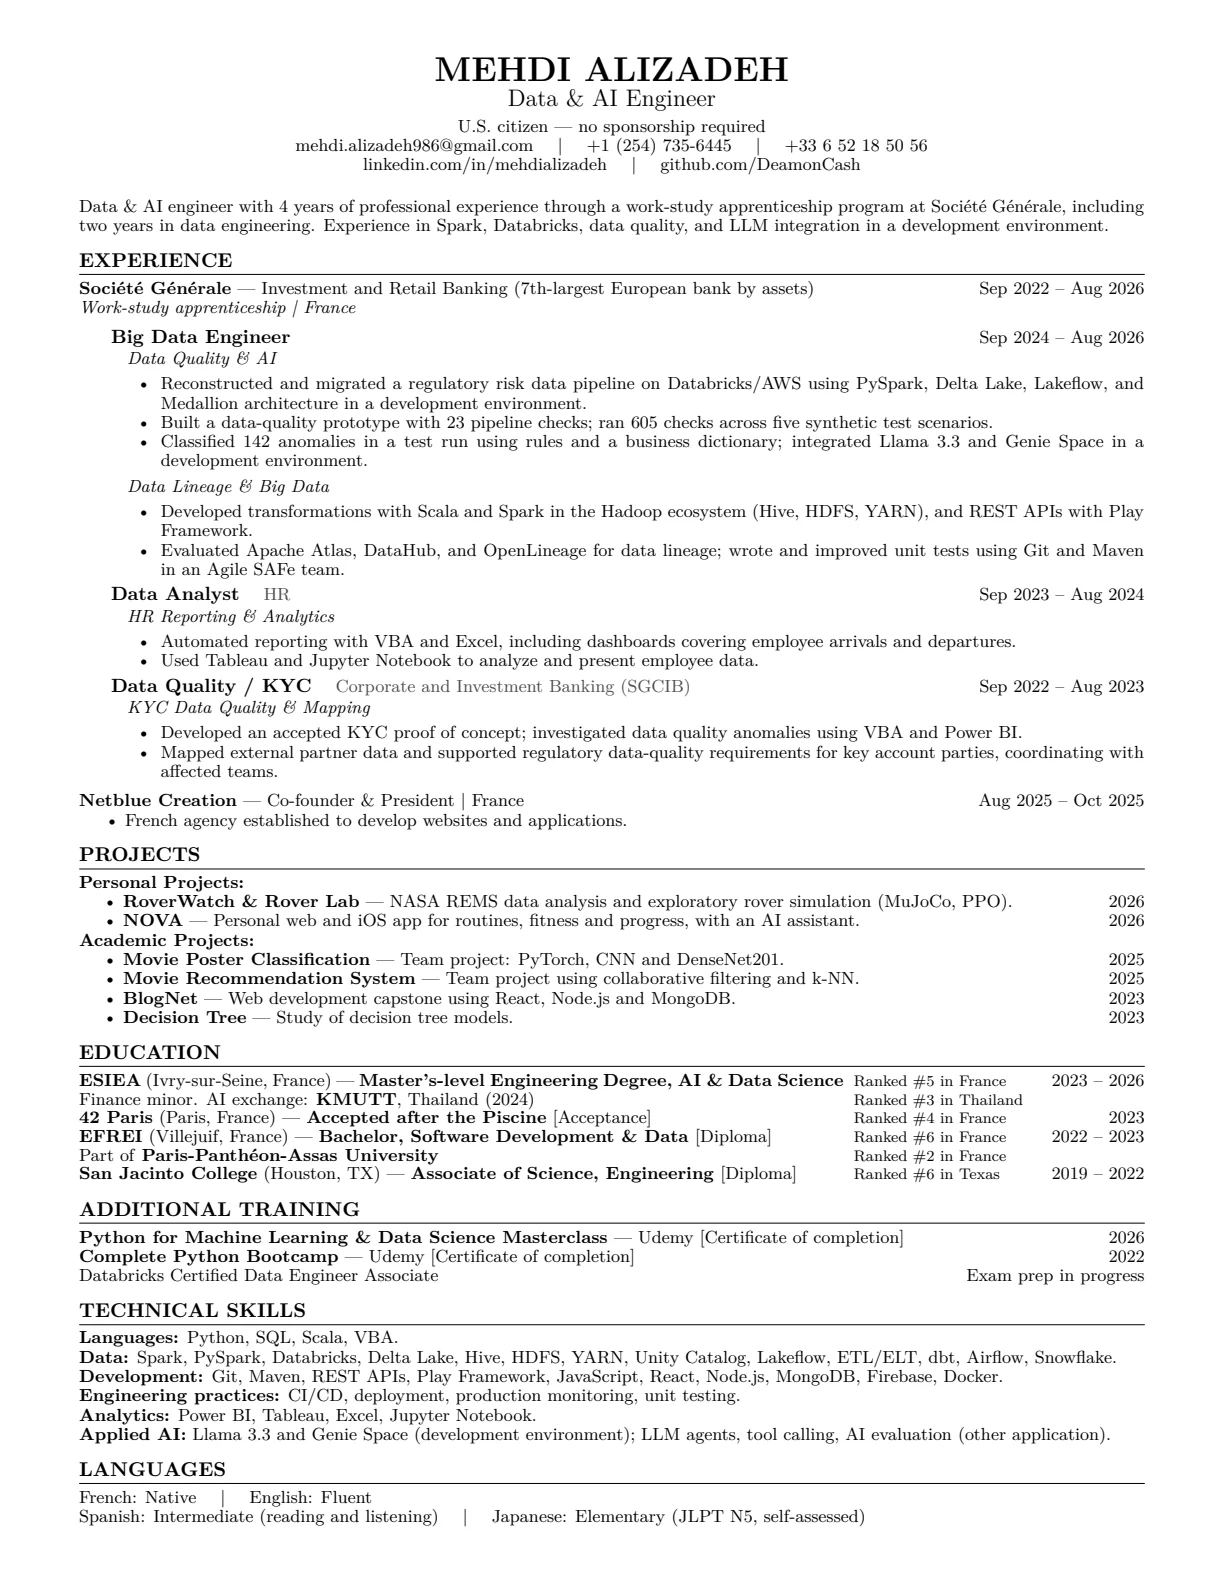
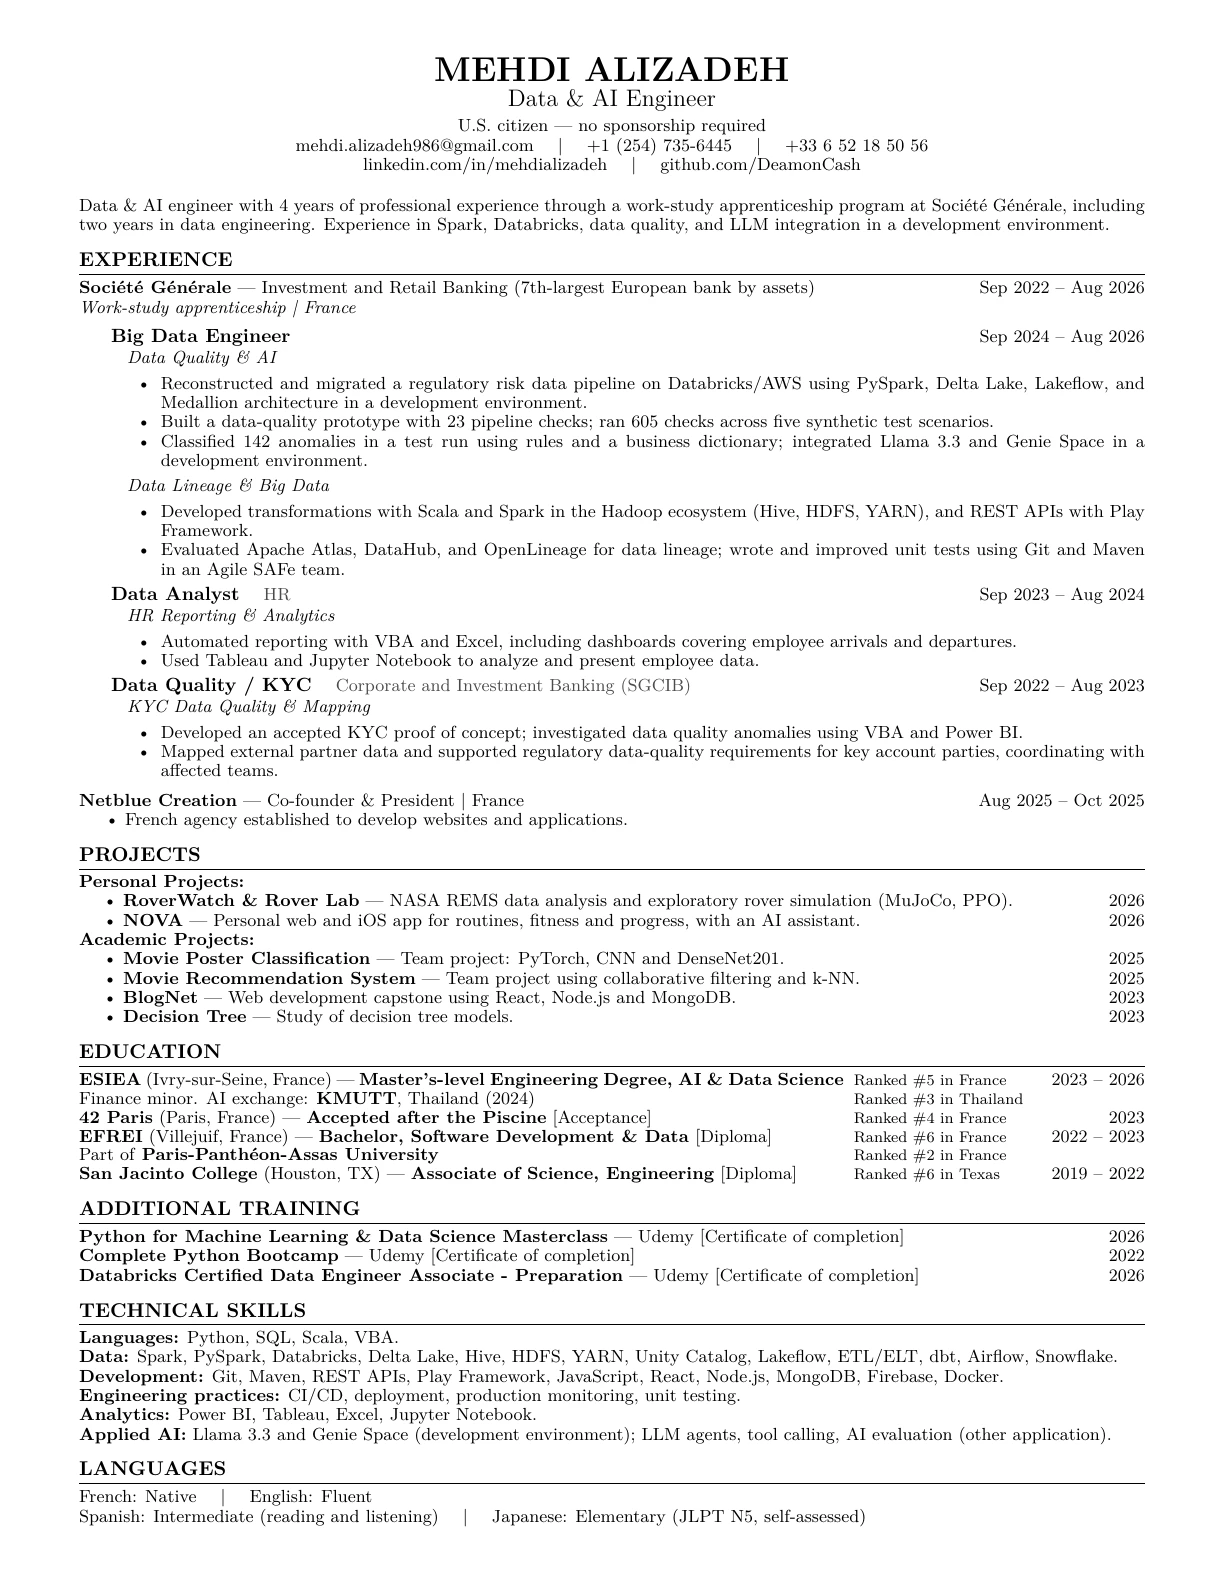
Add completed Udemy Databricks preparation course

diff --git a/index.html b/index.html
@@ -95,7 +95,8 @@
 <section class="section" id="training"><div class="short-line"></div><h2>Training</h2><p class="section-note">Completed courses and current exam preparation.</p><h3 class="training-heading">Courses &amp; certificates</h3><p class="section-note"><a class="education-diploma-link" href="#toeic-score-2023">[TOEIC score report]</a> · <a class="education-diploma-link" href="#french-baccalaureate">[French Baccalaureate]</a></p><ul class="cert-list">
 <li class="cert-item"><button class="cert-toggle" type="button" aria-expanded="false" aria-controls="cert-python"><span class="cert-status">Completed</span><strong>Complete Python Bootcamp</strong><span class="cert-arrow" aria-hidden="true">↗</span></button><div class="cert-reveal" id="cert-python" aria-hidden="true"><div class="cert-reveal-inner"><div class="cert-preview"><div class="cert-visual"><a href="https://udemy-certificate.s3.amazonaws.com/pdf/UC-1d11c0c8-5aeb-42a5-9d2f-fe4a362cbb2e.pdf" target="_blank" rel="noopener noreferrer"><img src="https://udemy-certificate.s3.amazonaws.com/image/UC-1d11c0c8-5aeb-42a5-9d2f-fe4a362cbb2e.jpg" alt="Complete Python Bootcamp certificate of completion" style="width:100%;height:auto;object-fit:contain"></a></div><div class="cert-message"><span>UDEMY · NOVEMBER 2022</span><strong>Certificate of completion</strong><p>The Complete Python Bootcamp From Zero to Hero in Python · Jose Portilla and Pierian Training.</p><p><a class="credential-link" href="https://www.udemy.com/certificate/UC-1d11c0c8-5aeb-42a5-9d2f-fe4a362cbb2e/" target="_blank" rel="noopener noreferrer">View verified certificate ↗</a> · <a class="credential-link" href="https://udemy-certificate.s3.amazonaws.com/pdf/UC-1d11c0c8-5aeb-42a5-9d2f-fe4a362cbb2e.pdf" target="_blank" rel="noopener noreferrer">View PDF ↗</a></p></div></div></div></div></li>
 <li class="cert-item"><button class="cert-toggle" type="button" aria-expanded="false" aria-controls="training-ml"><span class="cert-status">Completed</span><strong>Python for Machine Learning &amp; Data Science Masterclass</strong><span class="cert-arrow" aria-hidden="true">↗</span></button><div class="cert-reveal" id="training-ml" aria-hidden="true"><div class="cert-reveal-inner"><div class="cert-preview"><div class="cert-visual"><a href="https://udemy-certificate.s3.amazonaws.com/pdf/UC-3bb00277-aadc-471a-bc36-e1c55f91fa7e.pdf" target="_blank" rel="noopener noreferrer"><img src="https://udemy-certificate.s3.amazonaws.com/image/UC-3bb00277-aadc-471a-bc36-e1c55f91fa7e.jpg" alt="Python for Machine Learning and Data Science certificate of completion" style="width:100%;height:auto;object-fit:contain"></a></div><div class="cert-message"><span>UDEMY · CERTIFICATE ISSUED NOVEMBER 2026</span><strong>Certificate of completion</strong><p>Course covering Python, machine learning and data science.</p><p><a class="credential-link" href="https://www.udemy.com/certificate/UC-3bb00277-aadc-471a-bc36-e1c55f91fa7e/" target="_blank" rel="noopener noreferrer">View verified certificate ↗</a> · <a class="credential-link" href="https://udemy-certificate.s3.amazonaws.com/pdf/UC-3bb00277-aadc-471a-bc36-e1c55f91fa7e.pdf" target="_blank" rel="noopener noreferrer">View PDF ↗</a></p></div></div></div></div></li>
-</ul><h3 class="training-heading">Certification preparation</h3><p>Databricks Certified Data Engineer Associate · Exam prep in progress</p>  <article class="credential" id="toeic-score-2023" tabindex="-1" aria-labelledby="toeic-score-2023-title">
+<li class="cert-item"><button class="cert-toggle" type="button" aria-expanded="false" aria-controls="training-databricks"><span class="cert-status">Completed</span><strong>Databricks Certified Data Engineer Associate - Preparation</strong><span class="cert-arrow" aria-hidden="true">↗</span></button><div class="cert-reveal" id="training-databricks" aria-hidden="true"><div class="cert-reveal-inner"><div class="cert-preview"><div class="cert-visual"><a href="https://udemy-certificate.s3.amazonaws.com/pdf/UC-a2679225-9622-462d-a7d9-0be806ca043e.pdf" target="_blank" rel="noopener noreferrer"><img src="https://udemy-certificate.s3.amazonaws.com/image/UC-a2679225-9622-462d-a7d9-0be806ca043e.jpg" alt="Databricks exam preparation course certificate of completion" style="width:100%;height:auto;object-fit:contain"></a></div><div class="cert-message"><span>UDEMY · CERTIFICATE ISSUED NOVEMBER 2026</span><strong>Certificate of completion</strong><p>Six-hour Udemy course completed November 26, 2026. Topics include Spark SQL, PySpark, Delta Lake, and Lakeflow.</p><p><a class="credential-link" href="https://www.udemy.com/certificate/UC-a2679225-9622-462d-a7d9-0be806ca043e/" target="_blank" rel="noopener noreferrer">View verified certificate ↗</a> · <a class="credential-link" href="https://udemy-certificate.s3.amazonaws.com/pdf/UC-a2679225-9622-462d-a7d9-0be806ca043e.pdf" target="_blank" rel="noopener noreferrer">View PDF ↗</a></p></div></div></div></div></li>
+</ul><h3 class="training-heading">Certification preparation</h3><p>Official Databricks Data Engineer Associate exam · Pending</p>  <article class="credential" id="toeic-score-2023" tabindex="-1" aria-labelledby="toeic-score-2023-title">
     <h3 id="toeic-score-2023-title">TOEIC Listening &amp; Reading</h3>
     <p class="credential-note">855/990 · December 2023 · Validity ended December 2025</p>
     <img src="assets/toeic-score-2023.webp" width="1274" height="1800" loading="lazy" alt="Historical TOEIC Listening and Reading score report showing a total score of 855">
@@ -120,13 +121,13 @@
       <h2 id="resume-title">Resume</h2>
       <p class="resume-name">Mehdi Alizadeh</p>
       <p class="resume-meta">Data &amp; AI Engineer<br>1 page</p>
-      <a class="project-repo" href="resume.pdf?v=ranked-20261124" download="Mehdi-Alizadeh-Resume.pdf">Download PDF <span aria-hidden="true">↓</span></a>
+      <a class="project-repo" href="resume.pdf?v=ranked-20261126" download="Mehdi-Alizadeh-Resume.pdf">Download PDF <span aria-hidden="true">↓</span></a>
     </div>
     <figure class="resume-preview">
       <button type="button" class="resume-expand" aria-label="Enlarge resume preview" aria-haspopup="dialog" aria-controls="resume-viewer" hidden>
         <svg width="18" height="18" viewBox="0 0 24 24" fill="none" stroke="currentColor" stroke-width="1.8" aria-hidden="true"><path d="M8 3H3v5m13-5h5v5m0 8v5h-5M3 16v5h5"/></svg>
       </button>
-      <img src="assets/resume-preview.webp?v=ranked-20261124" alt="Preview of Mehdi Alizadeh’s resume" width="1224" height="1584" loading="lazy">
+      <img src="assets/resume-preview.webp?v=ranked-20261126" alt="Preview of Mehdi Alizadeh’s resume" width="1224" height="1584" loading="lazy">
     </figure>
   </div>
   <dialog class="resume-viewer" id="resume-viewer" aria-labelledby="resume-viewer-title">
@@ -135,7 +136,7 @@
       <form method="dialog"><button type="submit" class="resume-close" aria-label="Close resume preview" autofocus>×</button></form>
     </div>
     <div class="resume-viewer-page">
-      <img src="assets/resume-preview.webp?v=ranked-20261124" alt="Enlarged preview of Mehdi Alizadeh’s resume" width="1224" height="1584" loading="lazy">
+      <img src="assets/resume-preview.webp?v=ranked-20261126" alt="Enlarged preview of Mehdi Alizadeh’s resume" width="1224" height="1584" loading="lazy">
       <a class="resume-credential-link" href="#42-acceptance" aria-label="View 42 Paris acceptance" style="left:45.155%;top:70.086%;width:8.099%;height:1.107%"></a>
       <a class="resume-credential-link" href="#efrei-diploma" aria-label="View EFREI diploma" style="left:56.804%;top:71.268%;width:6.278%;height:1.107%"></a>
       <a class="resume-credential-link" href="#san-jacinto-diploma" aria-label="View San Jacinto College diploma" style="left:58.853%;top:73.621%;width:6.278%;height:1.107%"></a>
